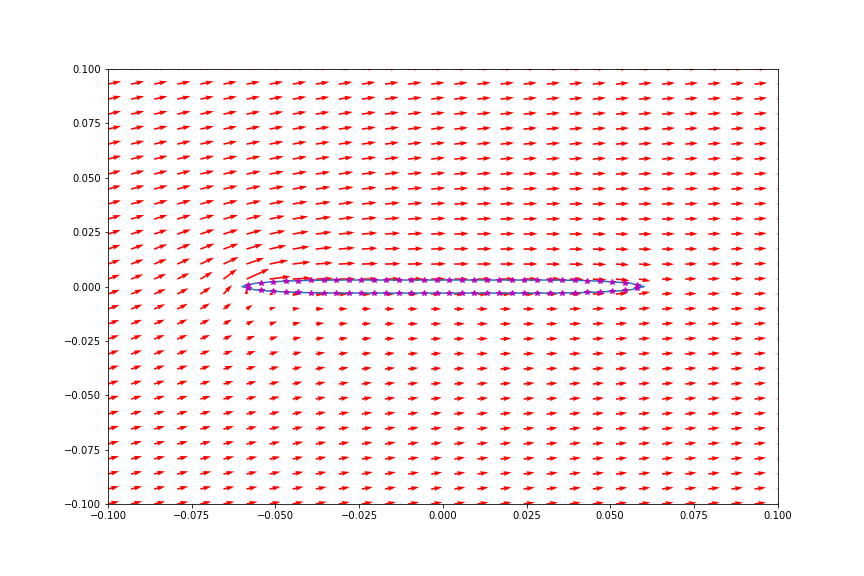
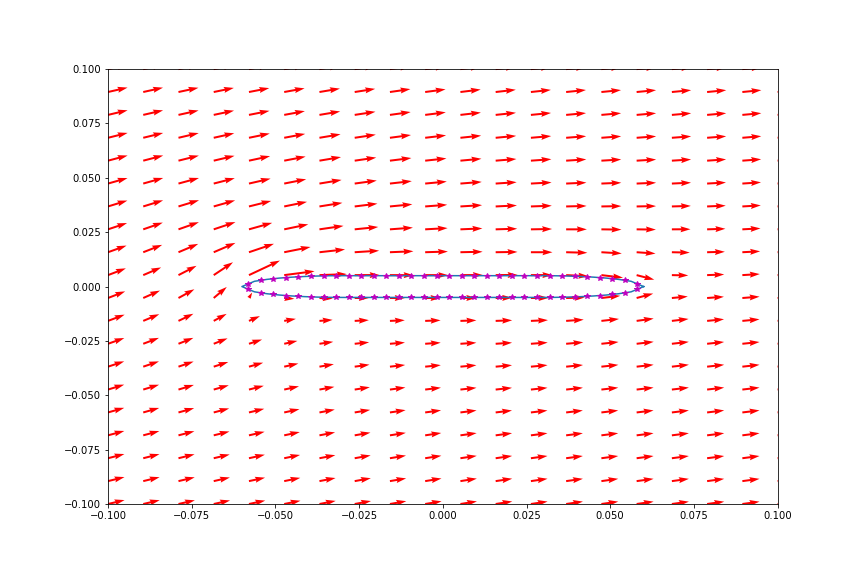
Updated NACA files
All NACA files except 4412 work now.  In addition NACA 2412 has shown has compared very well with A resource found online for both CL and pressure plot.  Flat plate and symmetric joukouski have not been confirmed for pressure plots.

Changed region(s): [[0.125, 0.125, 0.9062, 0.875]]

diff --git a/NACA_2412 steady.py b/NACA_2412 steady.py
@@ -5,15 +5,14 @@ steady panel method from HSPM
 """
 
 import numpy as np
-import scipy as sc
 import matplotlib.pyplot as plt
 import copy
 
 # setup panel coordinates and control point coordinates
-AoA=0*np.pi/180
+AoA=5*np.pi/180
 Uinf=3
 rho=1.204
-pathName='E://Research//Scripts//Potential Flow//Panel Method//NACA_2412.txt'
+pathName='E://Research//Scripts//Potential Flow//Panel Method//Git_Panel_Methods//NACA_2412.txt'
 readObj=open(pathName,'rt')
 numPanels=0
 for line in readObj:
@@ -26,11 +25,12 @@ yp=np.zeros((numPanels+1,1))
 i=0
 for line in readObj:
     line=line.strip('\n')
-    xp[i]=float(line[:6])
-    yp[i]=float(line[12:])
+    xp[i]=float(line[0:6])
+    yp[i]=float(line[-8:])
     i=i+1
 readObj.close()
 chord=xp[0]-xp[numPanels//2]
+yp=yp[::-1]
 
 # collocation points
 xc=np.zeros((numPanels,1))
@@ -89,8 +89,6 @@ b[-1]=-tangU[0]-tangU[-1]
 x=np.linalg.solve(A,b)
 
 #confirm that velocities on airfoil are tangential
-normVelFoil=np.zeros((numPanels,1))
-tangVelFoil=np.zeros((numPanels,1))
 normVelFoil=np.dot(nSource,x[:-1])+np.dot(nVortex,x[-1]*np.ones((numPanels,1)))+normU
 tangVelFoil=np.dot(tSource,x[:-1])+np.dot(tVortex,x[-1]*np.ones((numPanels,1)))+tangU
 
@@ -101,10 +99,7 @@ for i in range(numPanels):
     si[i]=((xp[i+1]-xp[i])**2+(yp[i+1]-yp[i])**2)**(1/2)
     perimeter=perimeter+si[i]
 gamma=x[-1]*perimeter
-lift_kutta=rho*Uinf*gamma
-
-# Lift from conformal mapping
-Cl_kutta=2*lift_kutta/(rho*Uinf**2*chord)
+Cl_kutta=2*gamma/(Uinf*chord)
 
 # lift from bernoulli
 dP=np.reshape(1/2*rho*(Uinf**2-tangVelFoil**2),(numPanels,1))
@@ -112,12 +107,18 @@ yForceDist=-dP*si*np.cos(theta-AoA)
 lift_bern=np.sum(yForceDist)
 Cl_bern=2*lift_bern/(rho*Uinf**2*chord)
 
+# moment from bernoulli
+momentBern=np.sum(yForceDist*np.cos(AoA)*-xc)
+
+# coefficient of pressure over chord, 1st column collocation point, 2nd column Cp
+Cp=dP/(1/2*rho*Uinf**2)
+
 # calculate velocities in the flow field
-numPoints=20
-xLeft=-.25
-xRight=1.25
-yLower=-.75
-yUpper=.75
+numPoints=30
+xLeft=-.2
+xRight=1.2
+yLower=-.7
+yUpper=.7
 X,Y=np.meshgrid(np.linspace(xLeft,xRight,numPoints),np.linspace(yLower,yUpper,numPoints))
 upsField=np.zeros((numPoints*numPoints,numPanels))
 wpsField=np.zeros((numPoints*numPoints,numPanels))
@@ -156,7 +157,7 @@ for i in range(numPoints): # each row of points
     for j in range(numPoints): # each point in row
         xVelStream[i,j]=np.dot(AFieldx[i*numPoints+j,:],x)+Uinf*np.cos(AoA)
         yVelStream[i,j]=np.dot(AFieldy[i*numPoints+j,:],x)+Uinf*np.sin(AoA)
-
+        
 # plot velocity vectors
 fig1=plt.figure(figsize=(12,8))
 fig1.add_subplot(111)
@@ -165,7 +166,18 @@ plt.xlim(xLeft,xRight)
 plt.plot(xp,yp)
 plt.quiver(X,Y,xVelStream,yVelStream,color='r')
 plt.plot(xc,yc,'*',color='m')
-#plt.savefig('steady_plate_15_AoA.png')
+#plt.savefig('velocity_symmetric_joukowski_10_AoA_thickness_006.png')
+
+# plot pressure coefficient
+fig2=plt.figure(figsize=(12,8))
+fig2.add_subplot(111)
+plt.plot(xc[:numPanels//2],Cp[:numPanels//2])
+plt.plot(xc[numPanels//2:],Cp[numPanels//2:])
+plt.legend(['bottom surface','top surface'],loc='lower right',fontsize=14)
+plt.xlabel('chord',fontsize=18)
+plt.ylabel(r'$C_P$',fontsize=18)
+#plt.savefig('pressure_symmetric_joukowksi_10_AoA_thickness_006.png')
 
 print('C_L from kutta:',Cl_kutta)
 print('C_L from bernoulli:',Cl_bern)
+print('moment about pivot: ',momentBern)

diff --git a/steady flat plate.py b/steady flat plate.py
@@ -14,7 +14,7 @@ Uinf=8.8
 rho=1.204
 chord=.12
 span=chord*2
-thickness=.006
+thickness=.01
 minRad=thickness/2
 majRad=chord/4
 numPanels=64
@@ -125,11 +125,12 @@ Cl_bern=2*lift_bern/(rho*Uinf**2*chord)
 # moment about pitching axis from Bernoulli
 momentBern=np.sum(yForceDist*np.cos(AoA)*-xc)
 
-# coefficient of pressure over chord, 1st column collocation point, 2nd column Cp
-Cp=dP/(1/2*rho*Uinf**2)
+# coefficient of pressure over chord
+#Cp=dP/(1/2*rho*Uinf**2)
+Cp=1-(tangVelFoil/Uinf)**2
 
 # calculate velocities in the flow field
-numPoints=30
+numPoints=20
 xLeft=-.1
 xRight=.1
 yLower=-.1
@@ -186,8 +187,8 @@ plt.savefig('velocity_steady_plate_5_AoA_thickness_006.png')
 # plot pressure coefficient
 fig2=plt.figure(figsize=(12,8))
 fig2.add_subplot(111)
-plt.plot(xc[:numPanels//2],Cp[:numPanels//2])
-plt.plot(xc[numPanels//2:],Cp[numPanels//2:])
+plt.plot(xc[:numPanels//2],Cp[:numPanels//2],'*')
+plt.plot(xc[numPanels//2:],Cp[numPanels//2:],'o')
 plt.legend(['bottom surface','top surface'],loc='lower right')
 plt.xlabel('chord',fontsize=18)
 plt.ylabel(r'$C_P$',fontsize=18)

diff --git a/symmetric joukowski.py b/symmetric joukowski.py
@@ -9,14 +9,14 @@ import matplotlib.pyplot as plt
 import copy
 
 # setup panel coordinates and control point coordinates
-AoA=10*np.pi/180
+AoA=5*np.pi/180
 Uinf=8.8
 rho=1.204
 chord=.12
 thickness=.006
 minRad=thickness/2
 majRad=chord/4
-numPanels=64
+numPanels=32
 panel_coor=np.zeros((numPanels+1,2))
 xp=np.zeros((numPanels+1,1))
 yp=np.zeros((numPanels+1,1))
@@ -26,6 +26,11 @@ xp[:,0]=chord/2*(np.cos(np.linspace(0,2*np.pi,numPanels+1))+1)
 xp[:,0]=xp[:,0]-chord/2
 yp[:numPanels//2+1]=-thickness*.385*(1-2*xp[:numPanels//2+1]/chord)*(1-(2*xp[:numPanels//2+1]/chord)**2)**(1/2)
 yp[numPanels//2+1:]=thickness*.385*(1-2*xp[numPanels//2+1:]/chord)*(1-(2*xp[numPanels//2+1:]/chord)**2)**(1/2)
+
+# get rid of infintesimal thickness at TE
+#xp=xp[5:-5]
+#yp=yp[5:-5]
+#numPanels=numPanels-10
 
 # collocation points
 xc=np.zeros((numPanels,1))

diff --git a/NACA_4412 steady.py b/NACA_4412 steady.py
@@ -8,12 +8,11 @@ import numpy as np
 import matplotlib.pyplot as plt
 import copy
 
-
 # setup panel coordinates and control point coordinates
 AoA=5*np.pi/180
 Uinf=3
 rho=1.204
-pathName='E://Research//Scripts//Potential Flow//Panel Method//Git_Panel_Methods//NACA_6409.txt'
+pathName='E://Research//Scripts//Potential Flow//Panel Method//Git_Panel_Methods//NACA_4412.txt'
 readObj=open(pathName,'rt')
 numPanels=0
 for line in readObj:
@@ -26,8 +25,8 @@ yp=np.zeros((numPanels+1,1))
 i=0
 for line in readObj:
     line=line.strip('\n')
-    xp[i]=float(line[:9])
-    yp[i]=float(line[-8:])
+    xp[i]=float(line[:6])
+    yp[i]=float(line[-7:])
     i=i+1
 readObj.close()
 chord=xp[0]-xp[numPanels//2]

diff --git a/NACA_2411 steady.py b/NACA_2411 steady.py
@@ -8,12 +8,11 @@ import numpy as np
 import matplotlib.pyplot as plt
 import copy
 
-
 # setup panel coordinates and control point coordinates
 AoA=5*np.pi/180
 Uinf=3
 rho=1.204
-pathName='E://Research//Scripts//Potential Flow//Panel Method//Git_Panel_Methods//NACA_6409.txt'
+pathName='E://Research//Scripts//Potential Flow//Panel Method//Git_Panel_Methods//NACA_2411.txt'
 readObj=open(pathName,'rt')
 numPanels=0
 for line in readObj:
@@ -26,7 +25,7 @@ yp=np.zeros((numPanels+1,1))
 i=0
 for line in readObj:
     line=line.strip('\n')
-    xp[i]=float(line[:9])
+    xp[i]=float(line[2:9])
     yp[i]=float(line[-8:])
     i=i+1
 readObj.close()
